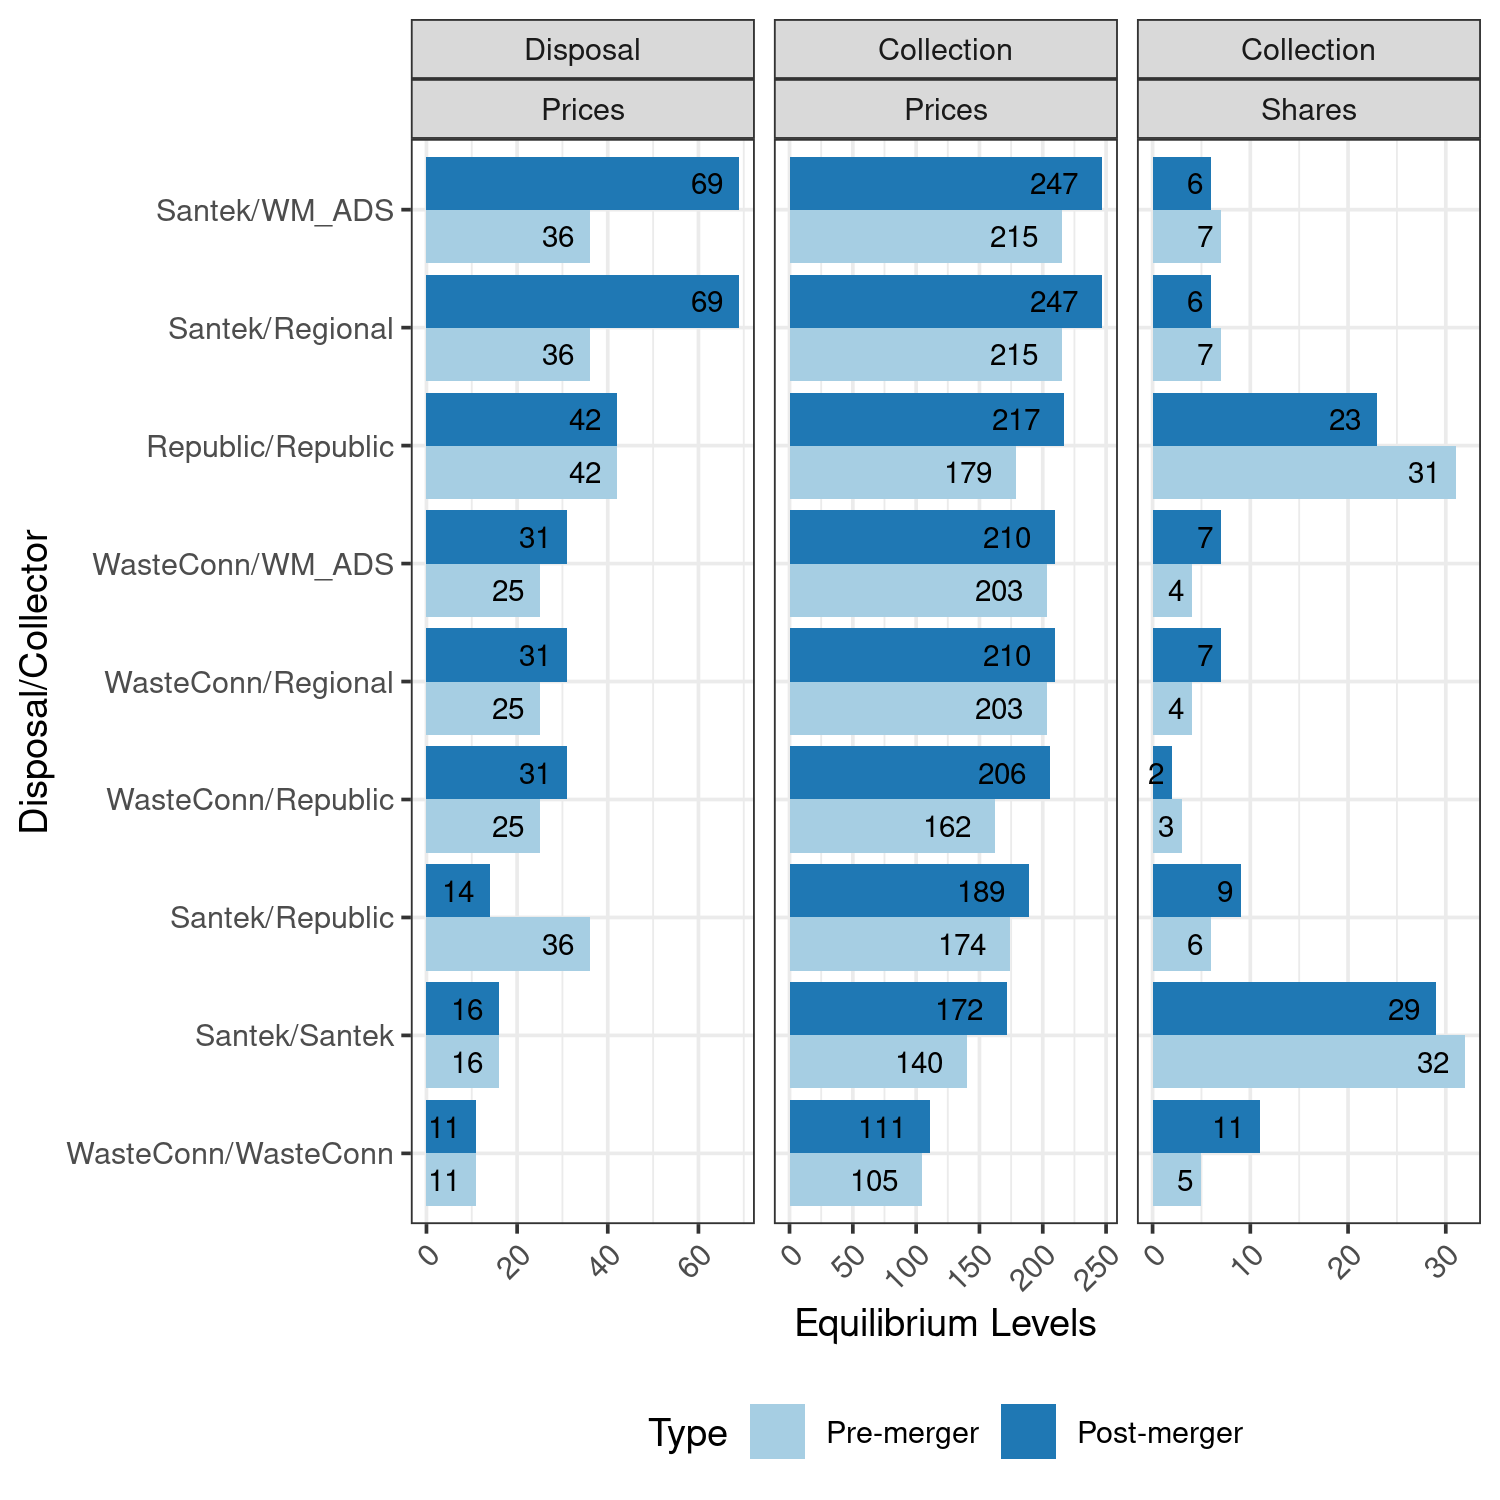
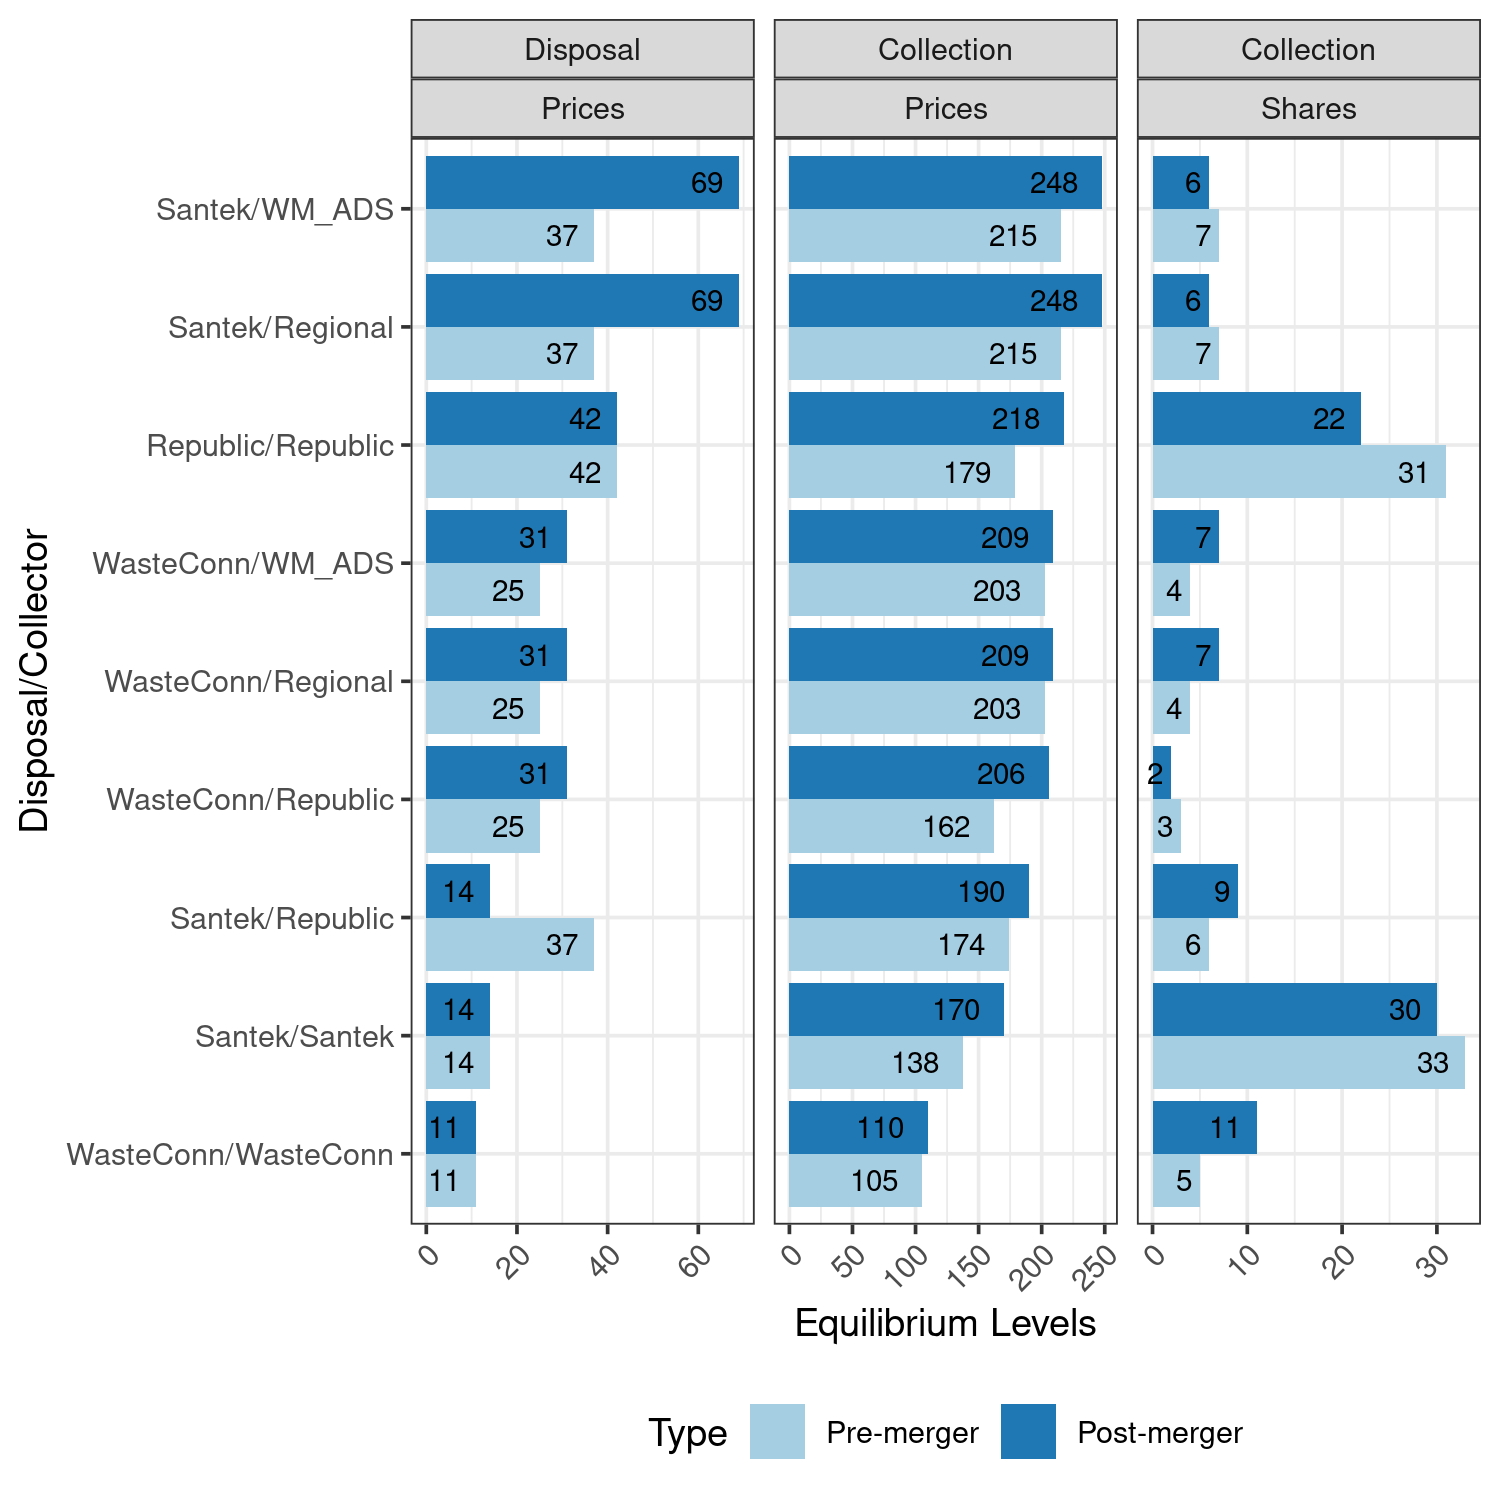
Changed Santek:Santek marginal costs so they equal the the calibrated marginal costs of other Santek products.

diff --git a/doc/TrashData.tex b/doc/TrashData.tex
@@ -8,7 +8,7 @@
 Disposal Firm & Collection Firm & Volume (000s) & Disposal Price & Disposal Margin (\$) & Collection Margin (\$) & Collection Price\\
 \midrule
 Republic & Republic & 165 & 42 & 0 & 44 & 179\\
-Santek & Republic & 34 & 36 & 20 &  & 174\\
+Santek & Republic & 34 & 36 & 20 &  & 173\\
 Santek & Santek & 218 & 16 & 0 &  & 134\\
 Santek & WM\_ADS & 30 & 36 & 20 &  & 221\\
 Santek & Regional & 30 & 36 & 20 &  & 221\\
